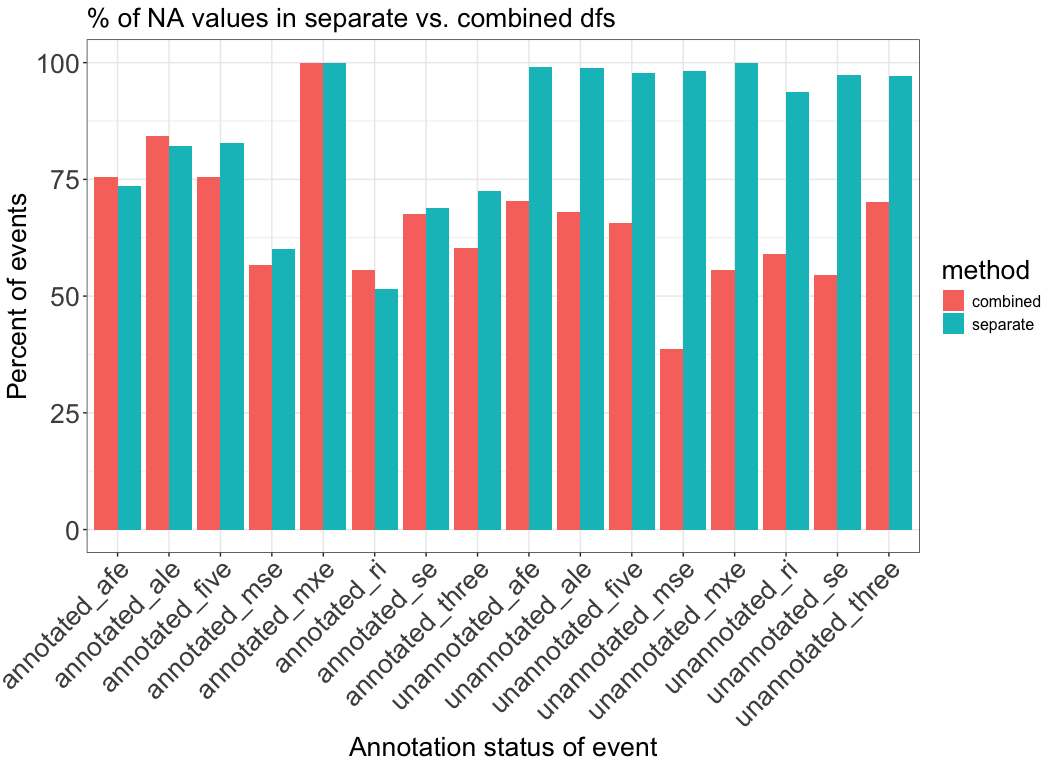
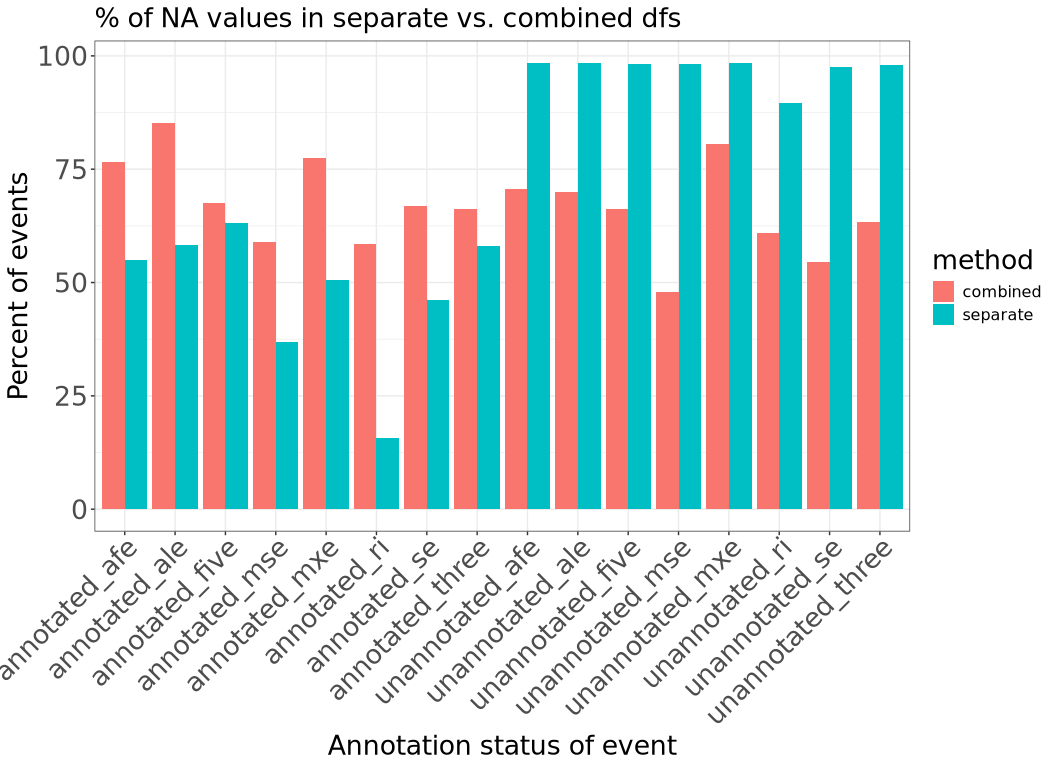
add NA percentage

Changed region(s): [[0.0, 0.0, 1.0, 1.0]]

diff --git a/exploration/merging-psi-tables/target_pilot/compare_merged_psi_table.md b/exploration/merging-psi-tables/target_pilot/compare_merged_psi_table.md
@@ -354,26 +354,62 @@ which may be beyond the scope of this project.
 
 ## Compare NA values in each table
 
-I am once again doing this witha. subset of 2000 events per table until
-I get around the memory issue
+Create summary table of % NAs from shiba or from merging
 
 ``` r
-na_summary_df <- long_shared_events |>
-  # make it longer again so we can summarize by the method
-  tidyr::pivot_longer(
-    cols = c("combined", "separate"),
-    names_to = c("method")
-  ) |>
+na_summary_df <- long_all_events |>
   dplyr::summarise(
     .by = c(event_type, label, method),
     na_count = sum(is.na(dplyr::across(everything()))),
+    merge_na_count = sum(PSI == -1, na.rm = TRUE),
     total = dplyr::n(),
-    percent_na = na_count / total * 100
+    percent_na = na_count / total * 100,
+    percent_merge_na = merge_na_count / total * 100
   ) |>
   # concatenate label and event type columns into one again for easy plotting
   tidyr::unite(label_event_type, c("label", "event_type"))
 
+na_summary_df
+```
 
+| label_event_type | method | na_count | merge_na_count | total | percent_na | percent_merge_na |
+|:---|:---|---:|---:|---:|---:|---:|
+| annotated_se | combined | 6166179 | 0 | 9228736 | 66.81499 | 0.0000000 |
+| annotated_se | separate | 4251850 | 2031708 | 9228736 | 46.07186 | 22.0150192 |
+| unannotated_se | combined | 1581150 | 0 | 2896256 | 54.59290 | 0.0000000 |
+| unannotated_se | separate | 2823423 | 10936 | 2896256 | 97.48527 | 0.3775909 |
+| unannotated_afe | combined | 6076921 | 0 | 8590208 | 70.74242 | 0.0000000 |
+| unannotated_afe | separate | 8448581 | 36929 | 8590208 | 98.35130 | 0.4298965 |
+| annotated_afe | combined | 12185042 | 0 | 15895616 | 76.65662 | 0.0000000 |
+| annotated_afe | separate | 8723340 | 3419585 | 15895616 | 54.87891 | 21.5127555 |
+| annotated_ale | combined | 11709340 | 0 | 13759064 | 85.10274 | 0.0000000 |
+| annotated_ale | separate | 8026483 | 3273806 | 13759064 | 58.33597 | 23.7938133 |
+| unannotated_ale | combined | 3836807 | 0 | 5485392 | 69.94590 | 0.0000000 |
+| unannotated_ale | separate | 5399971 | 14358 | 5485392 | 98.44275 | 0.2617498 |
+| annotated_five | combined | 2114960 | 0 | 3128928 | 67.59376 | 0.0000000 |
+| annotated_five | separate | 1972669 | 442408 | 3128928 | 63.04616 | 14.1392835 |
+| unannotated_five | combined | 980836 | 0 | 1480600 | 66.24585 | 0.0000000 |
+| unannotated_five | separate | 1454411 | 5200 | 1480600 | 98.23119 | 0.3512090 |
+| annotated_three | combined | 2369673 | 0 | 3580808 | 66.17705 | 0.0000000 |
+| annotated_three | separate | 2078669 | 535957 | 3580808 | 58.05028 | 14.9674878 |
+| unannotated_three | combined | 959643 | 0 | 1514832 | 63.34980 | 0.0000000 |
+| unannotated_three | separate | 1484626 | 5380 | 1514832 | 98.00598 | 0.3551549 |
+| annotated_mse | combined | 3329604 | 0 | 5642912 | 59.00507 | 0.0000000 |
+| annotated_mse | separate | 2086776 | 1435982 | 5642912 | 36.98048 | 25.4475349 |
+| unannotated_mse | combined | 820135 | 0 | 1710192 | 47.95573 | 0.0000000 |
+| unannotated_mse | separate | 1679663 | 3397 | 1710192 | 98.21488 | 0.1986327 |
+| annotated_mxe | combined | 65729 | 0 | 84744 | 77.56183 | 0.0000000 |
+| annotated_mxe | separate | 42929 | 17861 | 84744 | 50.65727 | 21.0764184 |
+| unannotated_mxe | combined | 34108 | 0 | 42328 | 80.58023 | 0.0000000 |
+| unannotated_mxe | separate | 41661 | 106 | 42328 | 98.42421 | 0.2504253 |
+| unannotated_ri | combined | 2768640 | 0 | 4543880 | 60.93119 | 0.0000000 |
+| unannotated_ri | separate | 4076340 | 174834 | 4543880 | 89.71056 | 3.8476808 |
+| annotated_ri | combined | 841155 | 0 | 1438712 | 58.46584 | 0.0000000 |
+| annotated_ri | separate | 225301 | 580436 | 1438712 | 15.65991 | 40.3441411 |
+
+Plot % NAs from shiba
+
+``` r
 ggplot(na_summary_df, aes(fill = method, x = label_event_type, y = percent_na)) +
   geom_bar(position = "dodge", stat = "identity") +
   plot_theme +
@@ -392,11 +428,38 @@ ggplot(na_summary_df, aes(fill = method, x = label_event_type, y = percent_na)) 
 src="compare_merged_psi_table_files/figure-commonmark/fig-percent_na_comparison-1.png"
 id="fig-percent_na_comparison" />
 
+Figure 4
+
+</div>
+
+Similar to unannotated event types being overrepresented in the separate
+PSI table in **?@fig-unshared_splice_events** , we see the NA values
+becoming more of an issue in unannotated event types in the separate PSI
+table.
+
+Plot % NAs from merging tables
+
+``` r
+ggplot(na_summary_df, aes(fill = method, x = label_event_type, y = percent_merge_na)) +
+  geom_bar(position = "dodge", stat = "identity") +
+  plot_theme +
+  labs(
+    title = "% of NA values from merging tables in separate vs. combined dfs",
+    x = "Annotation status of event",
+    y = "Percent of events"
+  ) +
+  scale_x_discrete(guide = guide_axis(angle = 45)) +
+  plot_theme
+```
+
+<div id="fig-percent_merge_na_comparison">
+
+<img
+src="compare_merged_psi_table_files/figure-commonmark/fig-percent_merge_na_comparison-1.png"
+id="fig-percent_merge_na_comparison" />
+
 Figure 5
 
 </div>
 
-Similar to
-<a href="#fig-unshared_splice_events" class="quarto-xref">Figure 2</a> ,
-we see the NA values becoming more of an issue in unannotated event
-types.
+A good portion of NA values come from merging in the separate PSI tables
